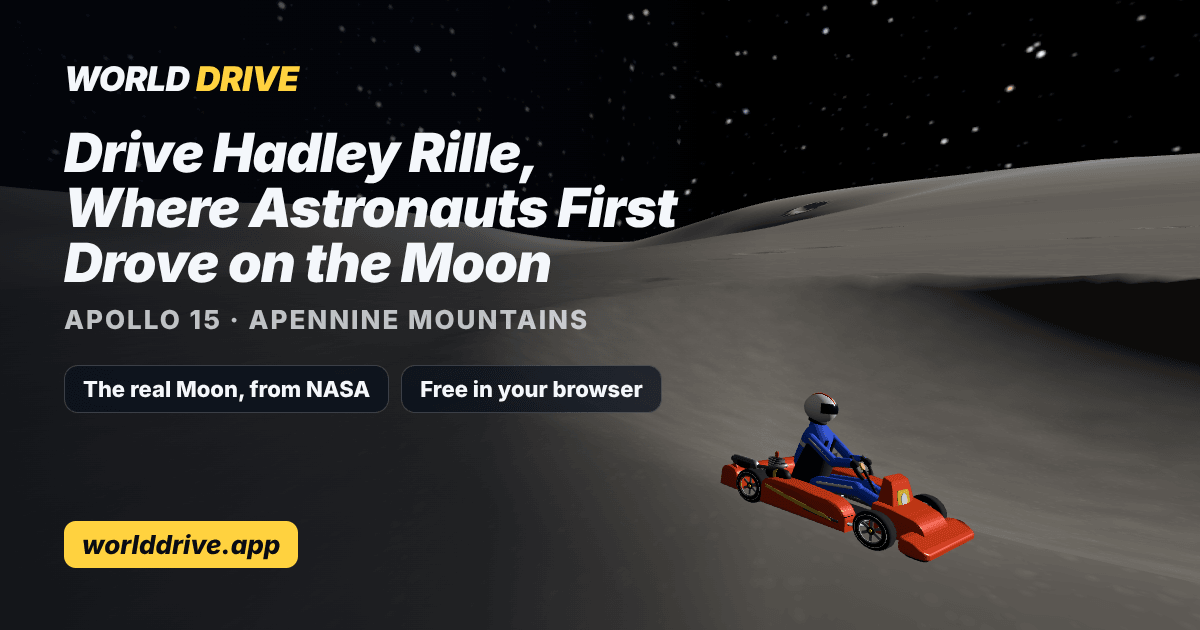
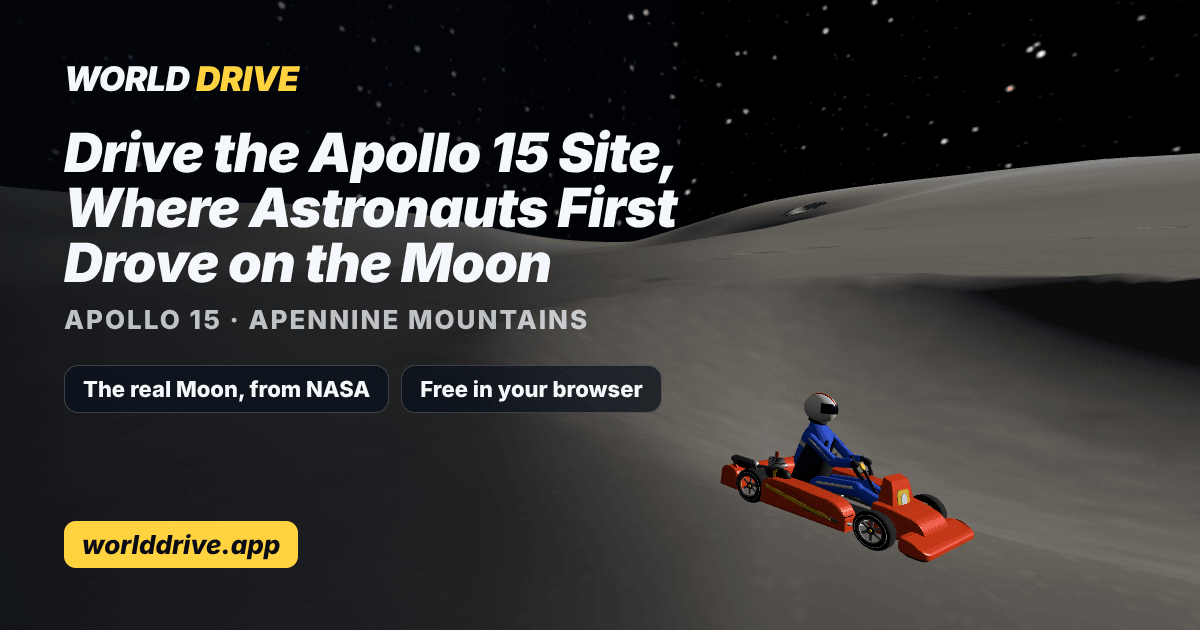
World Drive's Moon pages and play stats: fixes from review
- The Apollo 15 page is titled for the site, not Hadley Rille (narrower
  than the Moon's height grid, so not in the game); its card redrawn.
- Chang'e 4 made the first soft landing on the far side.
- The Moon pages say which XP counts there (not the Earth's start-spot
  and area bonuses).
- The admin page compares a figure only when its counts cover the whole
  period before: the Worker says the first day with visits and with the
  funnel counted in it (previous.first), so new counts don't show false
  rises; "Turns to the Moon" waits for the newer counts too, and the
  Earth and Moon card shows no share without drop-ins.
- The admin-stats Worker test no longer depends on an earlier test
  having made the boss's account.

Claude-Session: https://claude.ai/code/session_01Bv8md4FnsUpFfPyxJuX1Ae

Changed region(s): [[0.185, 0.2111, 0.555, 0.3016]]

diff --git a/drive/public/admin.html b/drive/public/admin.html
@@ -182,8 +182,15 @@
 		for ( let t = Date.parse( from ); t <= Date.parse( to ); t += DAY ) days.push( new Date( t ).toISOString().slice( 0, 10 ) );
 		const daily = metric => days.map( d => byDay.get( metric )?.get( d ) ?? 0 );
 		const today = metric => byDay.get( metric )?.get( to ) ?? 0;
-		// Whether there's anything from the period before to compare with (counts started since, say).
-		const comparable = earlier( 'visit' ) > 0;
+		// Whether the period before is counted from its first day, so it's fair to compare with: the
+		// play counts (begun with the visits), and the newer ones (begun with the funnel: worlds,
+		// searches, problems). A period before them, or only partly after, would show false rises.
+		const comparable = !! previous.from && previous.first?.visit === previous.from;
+		const comparableNew = comparable && previous.first?.funnel === previous.from;
+		// The tiles from the newer counts, and those from the Worker's own tables (always comparable).
+		const NEWER = [ 'Visits that drove', 'Drove 10 min or more', 'On the Moon', 'Searches', 'Problems' ];
+		const TABLES = [ 'New players', 'New accounts', 'Passes bought' ];
+		const compared = label => TABLES.includes( label ) || ( NEWER.includes( label ) ? comparableNew : comparable );
 
 		const visits = total( 'visit' );
 		const play = total( 'play' );
@@ -234,9 +241,9 @@
 		out.innerHTML = `
 			<div class="tiles">
 				<div class="tile today"><div class="label">Today so far (UTC)</div><div class="value">${ esc( num( today( 'visit' ) ) ) }</div><div class="change muted">visits · ${ esc( hours( today( 'play' ) ) ) } played</div></div>
-				${ tiles.map( ( [ label, value, change, fewerIsBetter ] ) => `<div class="tile"><div class="label">${ esc( label ) }</div><div class="value">${ esc( value ) }</div>${ comparable || [ 'New players', 'New accounts', 'Passes bought' ].includes( label ) ? changeOf( change, fewerIsBetter ) : '' }</div>` ).join( '' ) }
+				${ tiles.map( ( [ label, value, change, fewerIsBetter ] ) => `<div class="tile"><div class="label">${ esc( label ) }</div><div class="value">${ esc( value ) }</div>${ compared( label ) ? changeOf( change, fewerIsBetter ) : '' }</div>` ).join( '' ) }
 			</div>
-			${ comparable ? '' : '<p class="note" style="margin:-6px 0 12px">No counts from the period before this one to compare with (they start later), so the play figures have no ▲ or ▼.</p>' }
+			${ comparable ? comparableNew ? '' : '<p class="note" style="margin:-6px 0 12px">The newer counts (how far visits get, the Moon, searches, problems) don\'t cover all of the period before this one, so they have no ▲ or ▼.</p>' : '<p class="note" style="margin:-6px 0 12px">The counts don\'t cover all of the period before this one (they start later), so the play figures have no ▲ or ▼.</p>' }
 			${ firstDay && firstDay > from ? `<p class="note" style="margin:-6px 0 12px">Counts start on ${ esc( firstDay ) }: nothing before it.</p>` : '' }
 			<div class="card wide">
 				<h2>Each day</h2>
@@ -249,8 +256,8 @@
 				<div class="card"><h2>Earth and Moon</h2>${ facts( [
 					[ 'Play on the Earth', hours( total( 'play_world', 'earth' ) ), percent( total( 'play_world', 'earth' ), worldPlay ) ],
 					[ 'Play on the Moon', hours( moonPlay ), percent( moonPlay, worldPlay ) ],
-					[ 'Turns to the Moon', num( total( 'world', 'moon' ) ), comparable ? changeText( [ total( 'world', 'moon' ), earlier( 'world', 'moon' ) ] ) : '' ],
-					[ 'Drop-ins on the Moon', num( total( 'dropin', 'moon' ) ), percent( total( 'dropin', 'moon' ), total( 'dropin' ) ) + ' of drop-ins' ],
+					[ 'Turns to the Moon', num( total( 'world', 'moon' ) ), comparableNew ? changeText( [ total( 'world', 'moon' ), earlier( 'world', 'moon' ) ] ) : '' ],
+					[ 'Drop-ins on the Moon', num( total( 'dropin', 'moon' ) ), total( 'dropin' ) ? percent( total( 'dropin', 'moon' ), total( 'dropin' ) ) + ' of drop-ins' : '' ],
 				] ) }</div>
 				<div class="card"><h2>Searches</h2>${ bars( named( 'search', SEARCHES ), num, 4, false ) }<p class="note">Found nothing: ${ esc( percent( total( 'search', 'nothing' ), total( 'search', 'earth' ) + total( 'search', 'moon' ) ) ) } of map and Moon searches. Never what was typed.</p></div>
 				<div class="card"><h2>Drop-in time <span class="muted">(Drive here to driving)</span></h2>${ bars( new Map( DROPIN_ORDER.map( k => [ k, total( 'dropin_time', k ) ] ) ), num, 5, false, shares( new Map( DROPIN_ORDER.map( k => [ k, total( 'dropin_time', k ) ] ) ) ) ) }</div>

diff --git a/drive/site/moon.js b/drive/site/moon.js
@@ -42,7 +42,7 @@ export const MOON_PAGES = [
 		spot: 'moon-apollo-15',
 		name: 'Hadley Rille',
 		region: 'Apollo 15 · Apennine Mountains',
-		title: 'Drive Hadley Rille, Where Astronauts First Drove on the Moon',
+		title: 'Drive the Apollo 15 Site, Where Astronauts First Drove on the Moon',
 		description: 'Drive the Moon where Apollo 15\'s astronauts first drove there in 1971: the plain at Hadley, below the Apennine Mountains, from NASA\'s maps. Free in your browser.',
 		about: [
 			'Apollo 15 landed on 30 July 1971 on the plain at Hadley, between Hadley Rille and the Apennine Mountains, which form the south-eastern edge of the Sea of Rains (Mare Imbrium). David Scott and James Irwin spent nearly three days there while Alfred Worden orbited above.',
@@ -239,7 +239,7 @@ export const MOON_PAGES = [
 		called: 'Von Kármán',
 		region: 'The far side · Chang\'e 4, 2019',
 		title: 'Drive Von Kármán Crater, Where Chang\'e 4 Landed',
-		description: 'Drive Von Kármán, the crater where China\'s Chang\'e 4 made the first landing on the Moon\'s far side in 2019, in 3D from NASA\'s maps. Free in your browser.',
+		description: 'Drive Von Kármán, the crater where China\'s Chang\'e 4 made the first soft landing on the Moon\'s far side in 2019, in 3D from NASA\'s maps. Free in your browser.',
 		about: [
 			'Von Kármán is a large crater on the far side of the Moon, inside the South Pole-Aitken basin, the biggest and oldest of the Moon\'s known impact basins. It\'s named after Theodore von Kármán, the Hungarian-American engineer who was a pioneer of aeronautics and rocketry.',
 			'On 3 January 2019 China\'s Chang\'e 4 landed on its floor, the first spacecraft to land gently on the far side, and sent out the rover Yutu-2. As the far side never faces the Earth, they talked to it through a relay satellite, Queqiao, out beyond the Moon.',
@@ -264,5 +264,5 @@ export const MOON_DRIVING = [
 	'<b>A sixth of the gravity.</b> A jump goes as high as on the Earth and lasts two and a half times as long, so there\'s time for more spins and flips (each is worth fewer points, to be fair to the Earth\'s).',
 	'<b>The Earth in the sky.</b> Over the near side it hangs in the black sky, lit by the same sun, so it shows a phase. From the far side it\'s never in sight.',
 	'<b>No water and no roads.</b> Grey dust and rock to the horizon, plains, crater rims and mountainsides.',
-	'<b>On your own.</b> Driving with others is on the Earth: on the Moon you drive alone, and levels and the leaderboard count there as anywhere.',
+	'<b>On your own.</b> Driving with others is on the Earth: on the Moon you drive alone. Driving, air, drifts and tricks still earn XP, and your best runs go on the leaderboard (the bonuses for new start spots and areas are the Earth\'s).',
 ];

diff --git a/worker/drive/stats.js b/worker/drive/stats.js
@@ -138,9 +138,10 @@ export async function adminStats( context ) {
 	const start = Date.parse( `${ before.from }T00:00:00Z` );
 	const end = Date.parse( `${ to }T00:00:00Z` ) + DAY;
 	context.ctx?.waitUntil?.( db.prepare( 'DELETE FROM stats_daily WHERE day < ?' ).bind( dayOf( now - KEEP_DAYS * DAY ) ).run().catch( () => {} ) );
-	const [ counts, earlier, totals, ...facts ] = await db.batch( [
+	const [ counts, earlier, firsts, totals, ...facts ] = await db.batch( [
 		db.prepare( 'SELECT day, metric, key, n FROM stats_daily WHERE day >= ? AND day <= ? ORDER BY day' ).bind( from, to ),
 		db.prepare( 'SELECT metric, key, SUM( n ) AS n FROM stats_daily WHERE day >= ? AND day <= ? GROUP BY metric, key' ).bind( before.from, before.to ),
+		db.prepare( `SELECT metric, MIN( day ) AS first FROM stats_daily WHERE day >= ? AND day <= ? AND metric IN ( 'visit', 'funnel' ) GROUP BY metric` ).bind( before.from, before.to ),
 		db.prepare( TOTALS ).bind( supporterEmails( env ) ),
 		...FACTS.map( ( [ , sql ] ) => db.prepare( sql ).bind( start, end ) ),
 	] );
@@ -166,9 +167,14 @@ export async function adminStats( context ) {
 	} );
 	rows.sort( ( a, b ) => a[ 0 ] < b[ 0 ] ? - 1 : a[ 0 ] > b[ 0 ] ? 1 : 0 );
 	const { players, accounts, supporters, unclaimed } = totals.results[ 0 ];
+	// The first day of the period before with each kind of count: the visits (and the counts begun
+	// with them) and the funnel (and the counts begun with it). A figure is only fairly compared when
+	// its counts cover that period from its first day.
+	const first = { visit: null, funnel: null };
+	for ( const r of firsts.results ) first[ r.metric ] = r.first;
 	return json( {
 		from, to, rows,
-		previous: { ...before, rows: [ ...previous.values() ] },
+		previous: { ...before, first, rows: [ ...previous.values() ] },
 		totals: { players, accounts, supporters, unclaimed },
 		kept: { stats: KEEP_DAYS, scores: KEEP_SCORES / DAY },
 	} );

diff --git a/docs/world-drive.md b/docs/world-drive.md
@@ -2384,7 +2384,11 @@ The owner's page of how World Drive is played: **`https://worlddrive.app/admin.h
 account in `ADMIN_EMAILS`, signed in on worlddrive.app (the globe's panel). It shows the last 7, 30 or
 90 days or the year (UTC days, the last of them today so far), each figure with ▲ or ▼ against the
 as many days just before (in per cent, or in points for a share; green for better and red for worse,
-fewer being better for problems and load times):
+fewer being better for problems and load times). A figure is compared only when its counts cover the
+period before from its first day: the play figures from the first day with visits counted, the
+funnel's, the Moon's, searches' and problems' from the first with the funnel counted (they began a
+deploy later), so a period before the counts began, or only partly after, shows no false rise; the
+page says which have no ▲ or ▼, and why. The facts from the Worker's own tables are always compared. On it:
 
 - **Tiles**: today so far (visits and play time), visits, play time, play per visit, drop-ins, the
   share of visits that drove and that drove 10 minutes or more, the share of play with others and on
@@ -2470,7 +2474,8 @@ it takes.
 `GET /api/admin/stats?days=30` answers, to an account in `ADMIN_EMAILS` (401 signed out, 403 anyone
 else), those days' rows and the facts in the same `[ day, metric, key, n ]` shape; the as many days
 before, added up by metric and key in D1 (what the page compares with: a year's comparison is a few
-hundred rows, not tens of thousands); the totals; and how far back the counts and the scores log go.
+hundred rows, not tens of thousands), with the first day in them with visits and with the funnel
+counted (`previous.first`, each null if none); the totals; and how far back the counts and the scores log go.
 A year at most, and rows older than two years (730 days, so a year can be set against the year
 before; it was 400 days before the comparisons) are deleted as it's asked. Every query is bounded by
 the days asked for, but the totals, which count the tables whole. The page draws it all with no
@@ -2686,7 +2691,7 @@ globe to the Moon and pins the spot there, and never drops in by itself.
 
 Their words are `drive/site/moon.js` (`MOON_PAGES`, and the paragraphs every Moon page shares).
 They keep to well-known facts (Apollo 11 on 20 July 1969, Apollo 15 the first to take the Lunar
-Roving Vehicle, Apollo 17 the last Apollo landing, Chang'e 4 the first landing on the far side), and
+Roving Vehicle, Apollo 17 the last Apollo landing, Chang'e 4 the first soft landing on the far side), and
 a number that isn't certain is left out. And they're honest about the game: its big shapes are the
 real Moon's, its heights every quarter of a degree (7.6 km apart), so anything narrower (Hadley
 Rille itself, the Taurus-Littrow valley's depth, Copernicus's terraces) is softened or not there;
